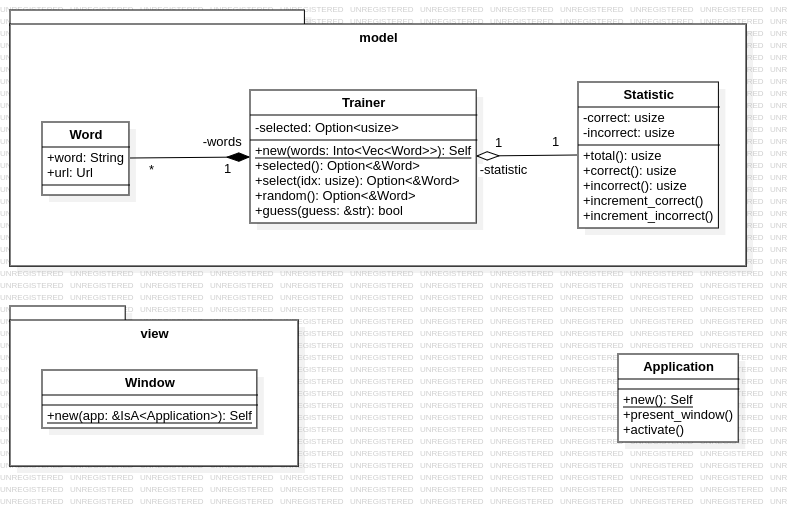
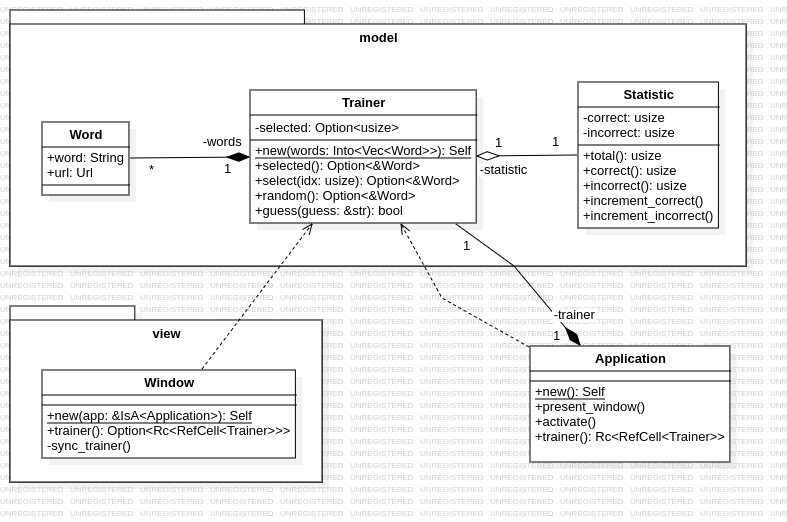
Add model to application

diff --git a/src/view/window.rs b/src/view/window.rs
@@ -1,6 +1,12 @@
+use std::cell::RefCell;
+use std::rc::Rc;
 use glib::Object;
 use adw::{gio, glib};
-use adw::glib::IsA;
+use adw::glib::{clone, IsA, MainContext};
+use adw::subclass::prelude::*;
+use gtk::prelude::*;
+use crate::model::Trainer;
+use crate::view::web_image::load_image;
 
 glib::wrapper! {
     pub struct Window(ObjectSubclass<imp::Window>)
@@ -11,14 +17,43 @@ glib::wrapper! {
 
 impl Window {
     pub fn new(app: &impl IsA<gtk::Application>) -> Self {
-        Object::builder().property("application", app).build()
+        let window = Object::builder::<Window>()
+            .property("application", app)
+            .build();
+        window.action_set_enabled("win.check", false);
+        window.sync_trainer();
+        window
+    }
+
+    pub fn trainer(&self) -> Option<Rc<RefCell<Trainer>>> {
+        self.application()
+            .map(|app| app.downcast::<crate::application::Application>().unwrap().trainer())
+    }
+
+    fn sync_trainer(&self) {
+        let trainer = self.trainer().expect("The application does not have a trainer");
+        let word = trainer.borrow_mut().random().cloned();
+
+        if let Some(word) = word {
+            let main_context = MainContext::default();
+            let image = self.imp().image.get();
+            let spinner = self.imp().spinner.get();
+            main_context.spawn_local(clone!(@strong self as this => async move {
+                let image_data = load_image(word.url.clone()).await
+                    .expect("Failed loading image data");
+                image.set_from_paintable(image_data.as_ref());
+                spinner.set_visible(false);
+                image.set_visible(true);
+                this.action_set_enabled("win.check", true);
+            }));
+        } else {
+            self.action_set_enabled("win.check", false);
+        }
     }
 }
 
 mod imp {
-    use adw::gio::SimpleAction;
-    use crate::view::web_image::load_image;
-    use adw::glib::{self, clone, MainContext};
+    use adw::glib::{self};
     use adw::subclass::prelude::*;
     use glib::subclass::InitializingObject;
     use gtk::{Button, CompositeTemplate, Entry, Image, Spinner};
@@ -44,6 +79,17 @@ mod imp {
         type ParentType = adw::ApplicationWindow;
 
         fn class_init(klass: &mut Self::Class) {
+            klass.install_action("win.check", None, |window, _, _| {
+                let entry = window.imp().guess_entry.get();
+                let text = entry.buffer().text();
+                let trainer = window.trainer().expect("The application does not have a trainer");
+                let correct = trainer.borrow_mut().guess(&text);
+                if correct {
+                    entry.buffer().set_text("");
+                }
+                window.sync_trainer();
+            });
+
             klass.bind_template();
         }
 
@@ -53,27 +99,6 @@ mod imp {
     }
 
     impl ObjectImpl for Window {
-        fn constructed(&self) {
-            self.parent_constructed();
-
-            let main_context = MainContext::default();
-            main_context.spawn_local(clone!(@strong self.image as image, @strong self.spinner as spinner => async move {
-                let image_data = load_image("https://source.unsplash.com/random").await
-                    .expect("Failed loading image data");
-                image.set_from_paintable(image_data.as_ref());
-                spinner.set_visible(false);
-                image.set_visible(true);
-            }));
-
-            let action_check = SimpleAction::new("check", None);
-
-            action_check.connect_activate(clone!(@strong self.guess_entry as entry, @strong self.check_button as button => move |_, _| {
-                let text = entry.buffer().text();
-                button.set_label(&format!("Checking {}...", &text));
-            }));
-
-            self.obj().add_action(&action_check);
-        }
     }
 
     impl WidgetImpl for Window {}

diff --git a/src/application.rs b/src/application.rs
@@ -1,9 +1,27 @@
+use std::cell::RefCell;
+use std::rc::Rc;
 use adw::{gio, glib};
 use adw::glib::Object;
 use adw::prelude::*;
+use adw::subclass::prelude::*;
+use lazy_static::lazy_static;
+use url::Url;
+use crate::model::{Trainer, Word};
 use crate::view::window::Window;
 
 const APP_ID: &str = "at.ac.tgm.pdamianik.spelling_trainer";
+lazy_static!{
+    static ref WORDS: [Word; 2] = [
+        Word {
+            word: "apple".to_owned(),
+            url: Url::parse("https://external-content.duckduckgo.com/iu/?u=http%3A%2F%2Fwikiclipart.com%2Fwp-content%2Fuploads%2F2016%2F09%2Fclip-art-apple-free-clipart.png&f=1&nofb=1&ipt=8d2d625dc550c18588574defee43dedc1906b3ff464fb1afab521c3426ed6f0e&ipo=images").expect("Failed to parse builtin image url"),
+        },
+        Word {
+            word: "raspberry".to_owned(),
+            url: Url::parse("https://external-content.duckduckgo.com/iu/?u=http%3A%2F%2Fclipartmag.com%2Fimages%2Fraspberry-clipart-27.png&f=1&nofb=1&ipt=e7b96c092eb38787f696e47f6c80cb23b5e7c299a538f01a099597fb06ba0f21&ipo=images").expect("Failed to parse builtin image url"),
+        }
+    ];
+}
 
 glib::wrapper! {
     pub struct Application(ObjectSubclass<imp::Application>)
@@ -34,14 +52,21 @@ impl Application {
         };
         window.present();
     }
+
+    pub fn trainer(&self) -> Rc<RefCell<Trainer>> {
+        self.imp().trainer.clone()
+    }
 }
 
 mod imp {
+    use std::cell::RefCell;
+    use std::rc::Rc;
     use adw::glib;
     use adw::subclass::prelude::*;
+    use crate::model::Trainer;
 
     pub struct Application {
-
+        pub trainer: Rc<RefCell<Trainer>>,
     }
 
     #[glib::object_subclass]
@@ -51,7 +76,10 @@ mod imp {
         type ParentType = adw::Application;
 
         fn new() -> Self {
-            Self {}
+            let words = &super::WORDS[..];
+            Self {
+                trainer: Rc::new(RefCell::new(Trainer::new(words))),
+            }
         }
     }
 

diff --git a/src/view/mod.rs b/src/view/mod.rs
@@ -1,2 +1,2 @@
-mod web_image;
 pub mod window;
+mod web_image;
